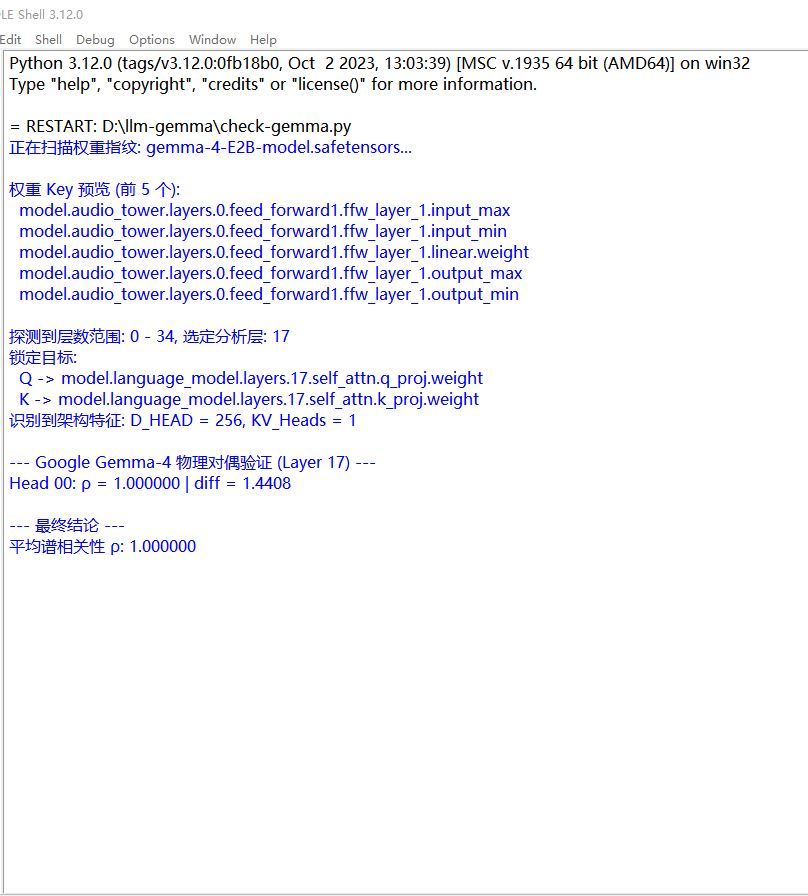
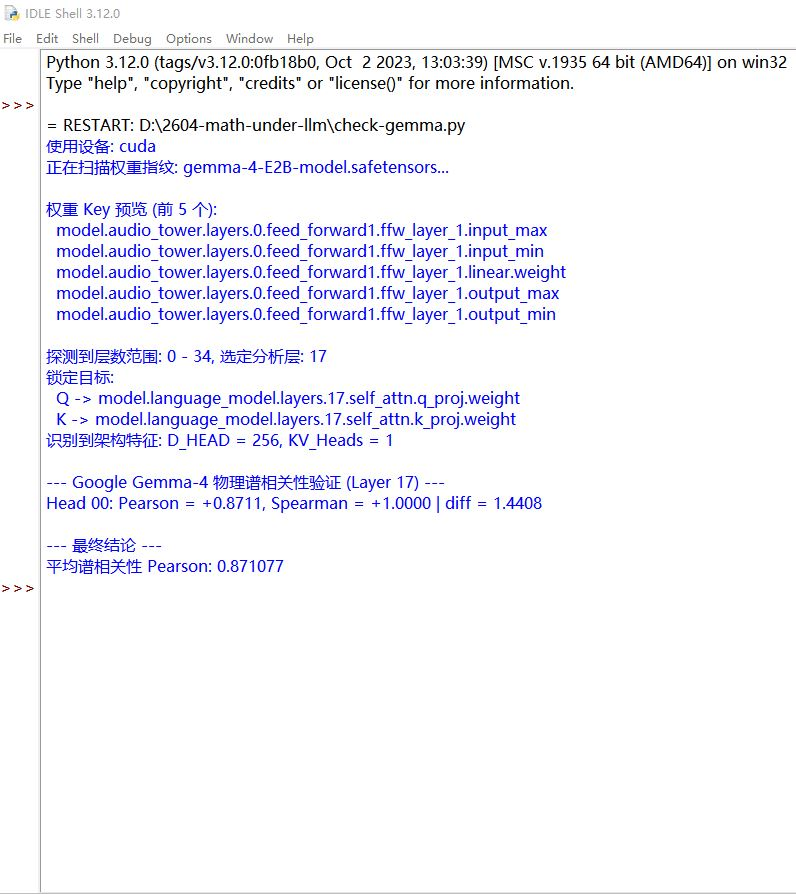
王氏常数定义：spearman_r -> pearson_r

diff --git a/proof/01-universal-spectral-constant/check-gemma.py b/proof/01-universal-spectral-constant/check-gemma.py
@@ -1,8 +1,12 @@
 import torch
 from safetensors.torch import load_file
 import numpy as np
-from scipy.stats import spearmanr
+from scipy.stats import spearmanr, pearsonr
 import re
+
+# ---------------------------- 配置区 ----------------------------
+DEVICE = torch.device("cuda" if torch.cuda.is_available() else "cpu")
+print(f"使用设备: {DEVICE}")
 
 # 1. 指向你的 Gemma-4 权重文件
 FILE_PATH = "gemma-4-E2B-model.safetensors"
@@ -57,7 +61,7 @@ else:
 n_kv_heads = wk.shape[0] // D_HEAD
 print(f"识别到架构特征: D_HEAD = {D_HEAD}, KV_Heads = {n_kv_heads}")
 
-print(f"\n--- Google Gemma-4 物理对偶验证 (Layer {L}) ---")
+print(f"\n--- Google Gemma-4 物理谱相关性验证 (Layer {L}) ---")
 results = []
 for h in range(min(n_kv_heads, 8)): # 验证前 8 个头
     kh = wk[h*D_HEAD : (h+1)*D_HEAD, :]
@@ -65,11 +69,19 @@ for h in range(min(n_kv_heads, 8)): # 验证前 8 个头
     
     _, sk, _ = np.linalg.svd(kh)
     _, sq, _ = np.linalg.svd(qh)
+
+    # ---------- 计算两种相关性 ----------
+    # 1) Pearson 线性相关系数 (在 CPU 上计算，然后取标量)
+    pearson_r, _ = pearsonr(sq, sk)
+
+    # 2) Spearman 秩相关系数 (需要排序，移到 CPU 用 scipy 计算)
+    # 注意：scipy.stats.spearmanr 期望一维数组，np.asarray 会自动处理
+    spearman_r, _ = spearmanr(sq, sk)   
     
-    rho, _ = spearmanr(sq, sk)
+   
     diff = np.linalg.norm(qh - kh) / (np.linalg.norm(kh) + 1e-9)
-    results.append(rho)
-    print(f"Head {h:02d}: ρ = {rho:.6f} | diff = {diff:.4f}")
+    results.append(pearson_r)
+    print(f"Head {h:02d}: Pearson = {pearson_r:+.4f}, Spearman = {spearman_r:+.4f} | diff = {diff:.4f}")
 
 print(f"\n--- 最终结论 ---")
-print(f"平均谱相关性 ρ: {np.mean(results):.6f}")
+print(f"平均谱相关性 Pearson: {np.mean(results):.6f}")

diff --git a/proof/01-universal-spectral-constant/check-llama.py b/proof/01-universal-spectral-constant/check-llama.py
@@ -1,10 +1,10 @@
 import torch
 from safetensors.torch import load_file
 import numpy as np
-from scipy.stats import spearmanr
+from scipy.stats import spearmanr,pearsonr
 
 # 1. 加载文件
-FILE_PATH = "llama-3-model-00001-of-00004.safetensors"
+FILE_PATH = "llama-3-8b-model-00001-of-00004.safetensors"
 weights = load_file(FILE_PATH)
 
 # --- 自动识别 Key 名 ---
@@ -39,14 +39,18 @@ wk = weights[template_k.format(L=L)]
 
 print(f"\n--- 物理验证结果 (Layer {L}) ---")
 for kv_h in range(N_KV_HEADS):
-    kh = wk[kv_h * D_HEAD : (kv_h + 1) * D_HEAD, :].to(torch.float32).numpy() #物理动作：你从庞大的权重矩阵中，精确切出了一个具体的 Key 头。
-    _, sk, _ = np.linalg.svd(kh) # 数学本质：通过 SVD（奇异值分解）提取该头的奇异值谱 ($s_k$)。这代表了该“字典索引”在空间中各个维度的能量分布。
+    kh = wk[kv_h * D_HEAD : (kv_h + 1) * D_HEAD, :].to(torch.float32).numpy()
+    _, sk, _ = np.linalg.svd(kh)
     
     for q_idx in range(GROUP_SIZE):
         h_idx = kv_h * GROUP_SIZE + q_idx
         qh = wq[h_idx * D_HEAD : (h_idx + 1) * D_HEAD, :].to(torch.float32).numpy()
         _, sq, _ = np.linalg.svd(qh)
+
+        # ---------- 计算两种相关性 ----------
+        # 1) Pearson 线性相关系数 (在 CPU 上计算，然后取标量)
+        pearson_r, _ = pearsonr(sq, sk)
         
-        inv_sk = 1.0 / (sk + 1e-6)
-        corr, _ = spearmanr(sq, inv_sk)
-        print(f"Group {kv_h} | Head {h_idx}: 谱相关系数 ρ = {corr:.4f}")
+        #inv_sk = 1.0 / (sk + 1e-6)
+        spearman_r, _ = spearmanr(sq, sk)
+        print(f"Group {kv_h} | Head {h_idx}: Pearson = {pearson_r:+.4f}, Spearman = {spearman_r:+.4f} ")

diff --git a/proof/01-universal-spectral-constant/check-qwen.py b/proof/01-universal-spectral-constant/check-qwen.py
@@ -1,7 +1,7 @@
 import torch
 from safetensors.torch import load_file
 import numpy as np
-from scipy.stats import spearmanr
+from scipy.stats import spearmanr, pearsonr
 
 # 1. 指向 Qwen2.5-3B 的权重文件
 FILE_PATH = "qwen-model-00001-of-00002.safetensors" 
@@ -46,9 +46,10 @@ for kv_h in range(n_k_heads):
         _, sq, _ = np.linalg.svd(qh)
         
         # 验证谱相关性 (sq vs sk)
-        rho, _ = spearmanr(sq, sk)
+        pearson_r, _ = pearsonr(sq, sk)
+        spearman_r, _ = spearmanr(sq, sk)
         # 验证矩阵差异
         diff = np.linalg.norm(qh - kh) / (np.linalg.norm(kh) + 1e-9)
         
         if h_idx < 4: # 打印前几个头看规律
-            print(f"Head {h_idx}: 谱相关性 ρ = {rho:.6f}, 矩阵差异 = {diff:.4f}")
+            print(f"Head {h_idx}: Pearson = {pearson_r:+.4f}, Spearman = {spearman_r:+.4f} | diff = {diff:.4f}")
